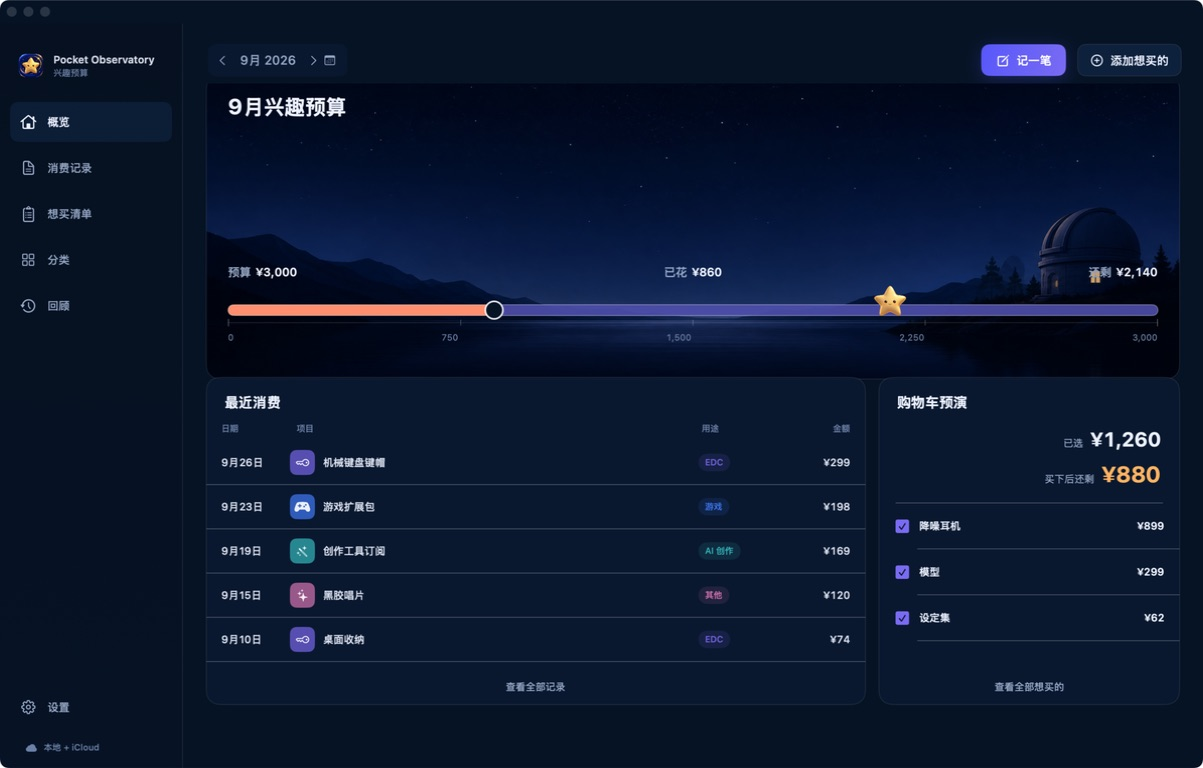
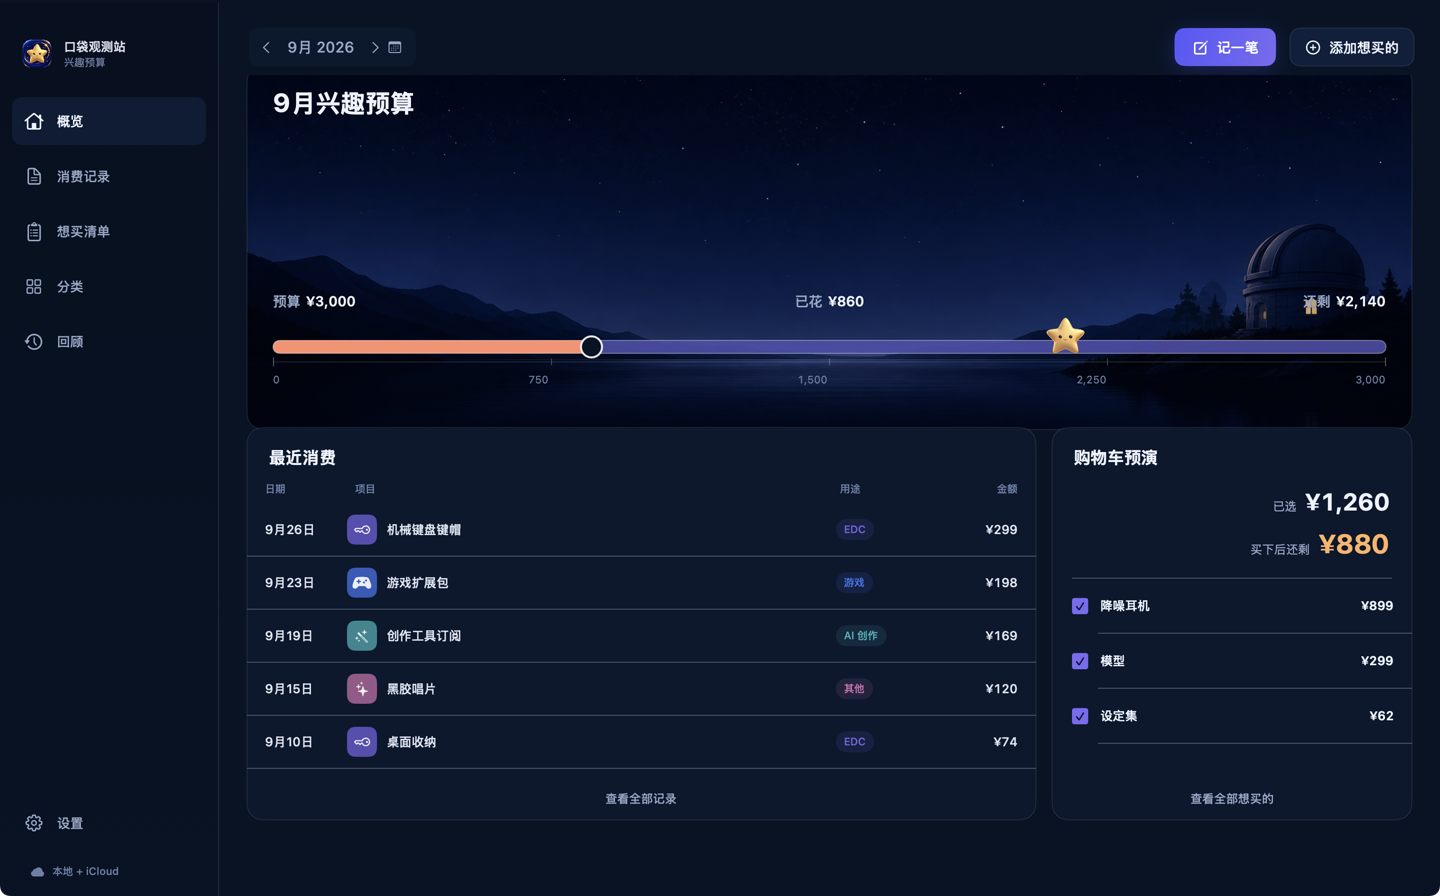
feat: update 口袋观测站 showcase

diff --git a/app/page.tsx b/app/page.tsx
@@ -38,7 +38,7 @@ const featuredWorks = [
 
 const moreWorks = [
   {
-    title: "Pocket Observatory",
+    title: "口袋观测站",
     type: "MACOS / SWIFT",
     description: "把兴趣支出、纯文本想买清单与购买后预算预演，收进一个安静的原生应用。",
     image: "/projects/pocket-observatory.png",

diff --git a/CHANGELOG.md b/CHANGELOG.md
@@ -2,6 +2,12 @@
 
 本项目的重要变更会记录在此文件中，格式参考 [Keep a Changelog](https://keepachangelog.com/zh-CN/1.1.0/)。
 
+## [1.1.1] - 2026-08-28
+
+### 变更
+
+- 将 Pocket Observatory 的作品名更新为「口袋观测站」，并替换为 v0.1.1 中文界面截图。
+
 ## [1.1.0] - 2026-08-27
 
 ### 新增
